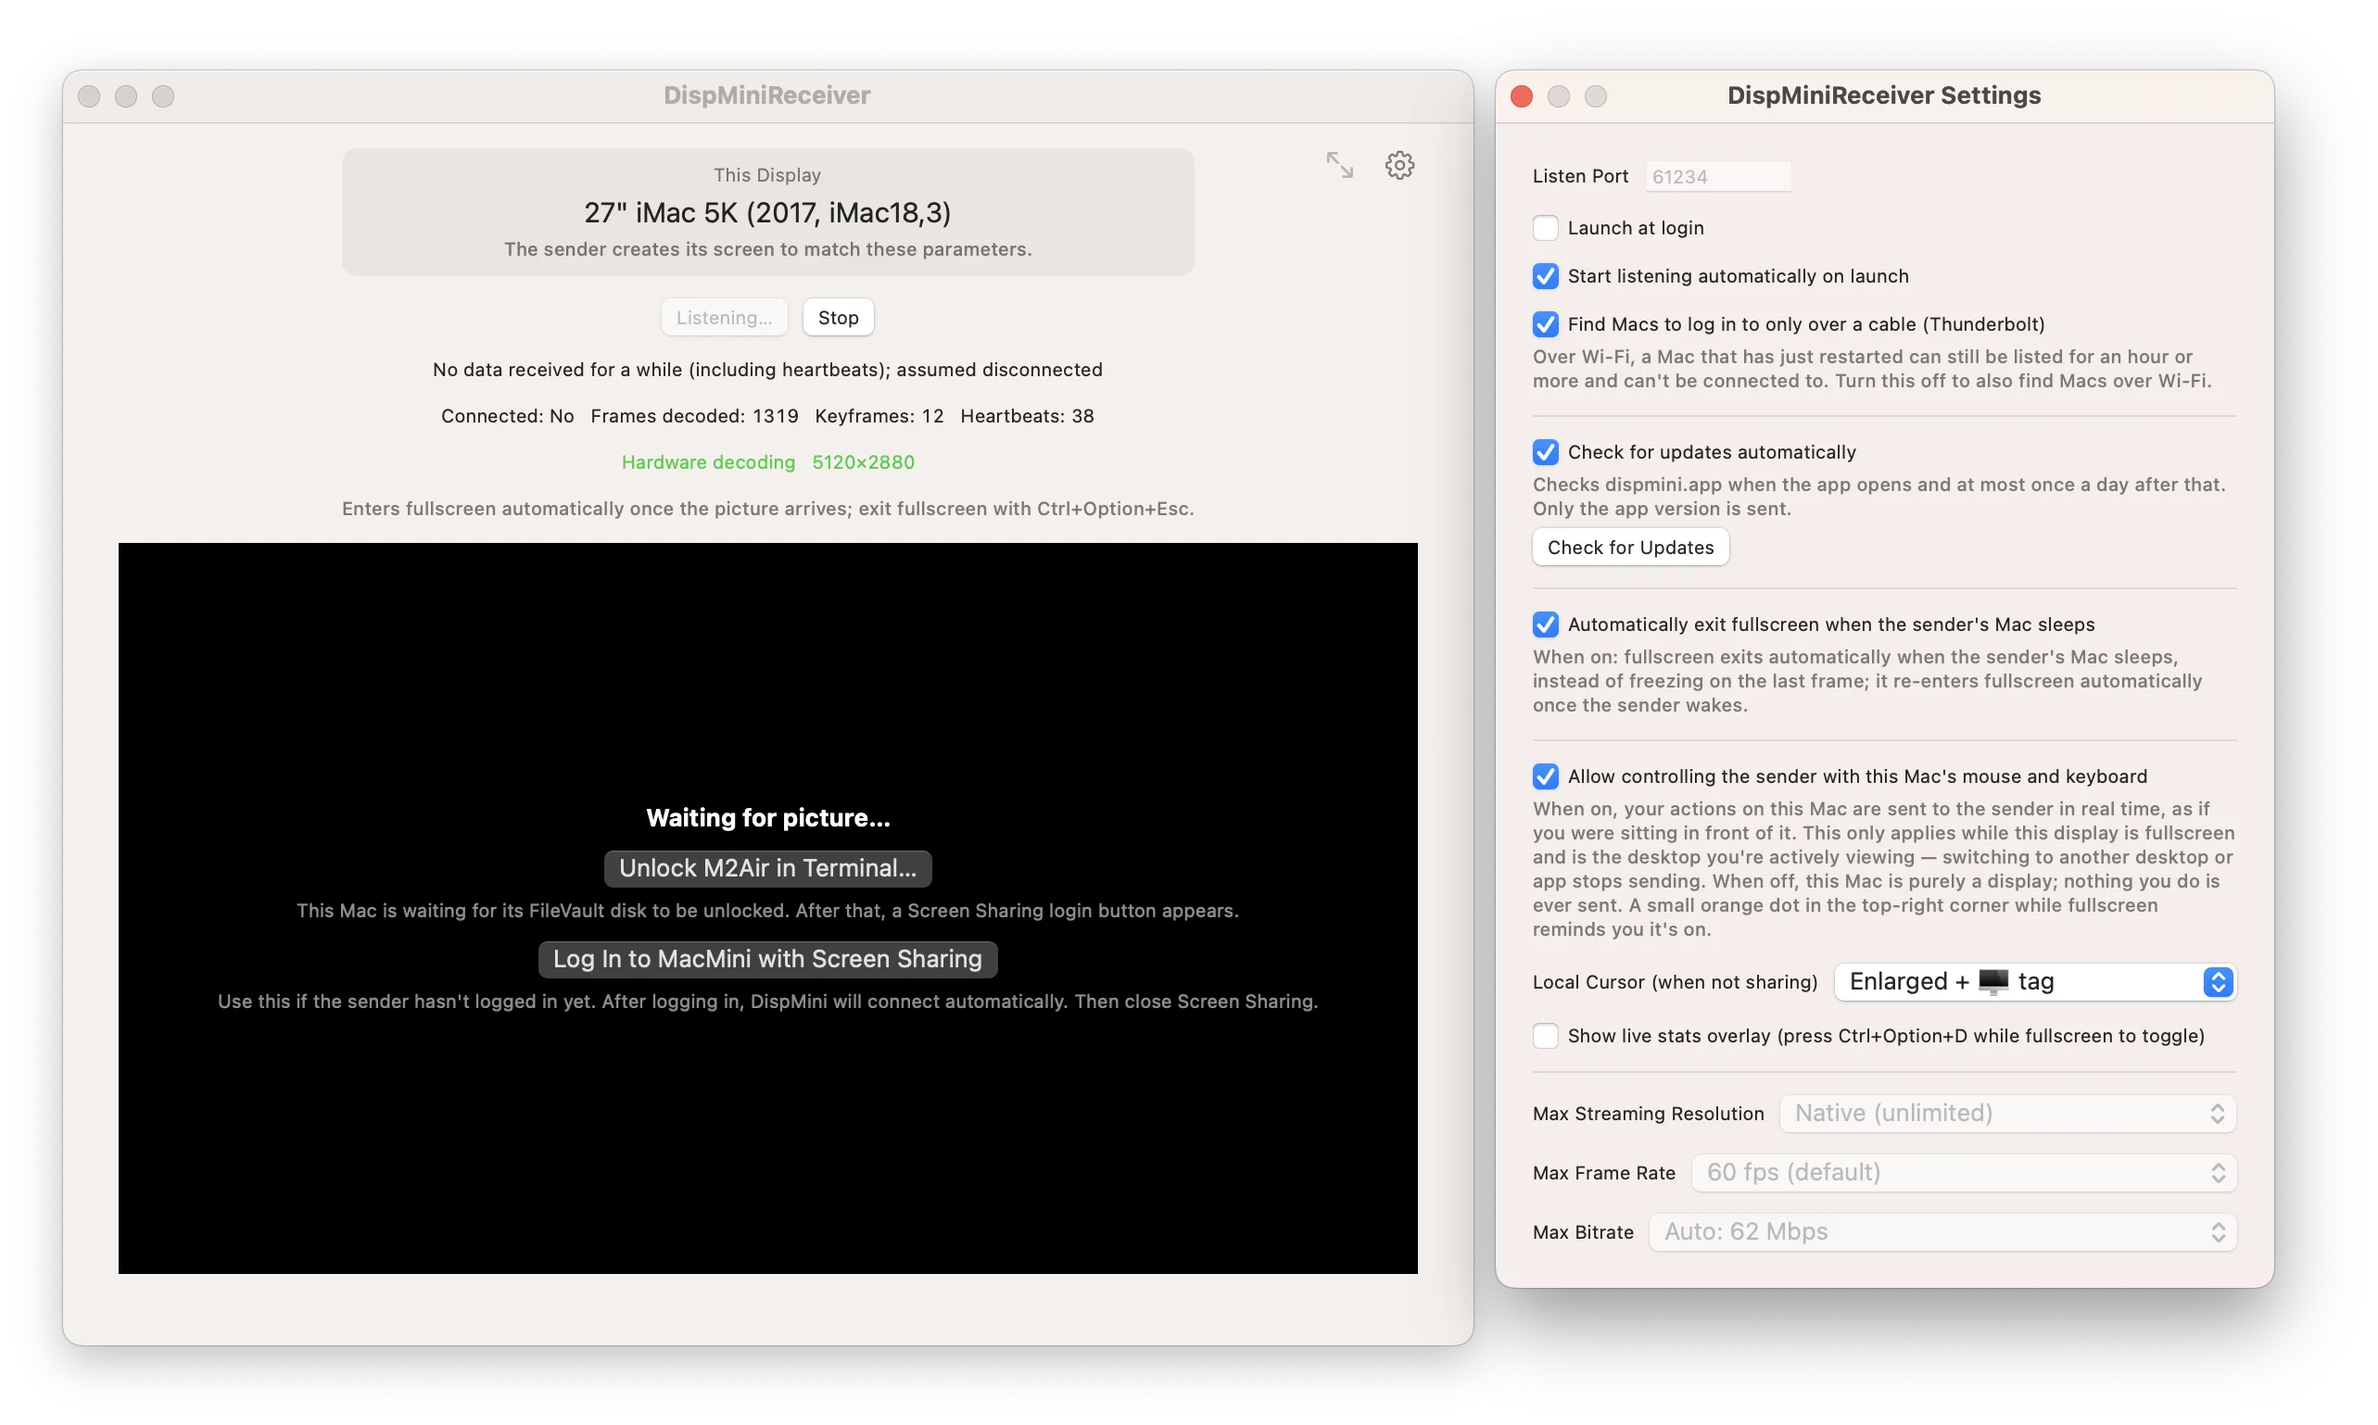
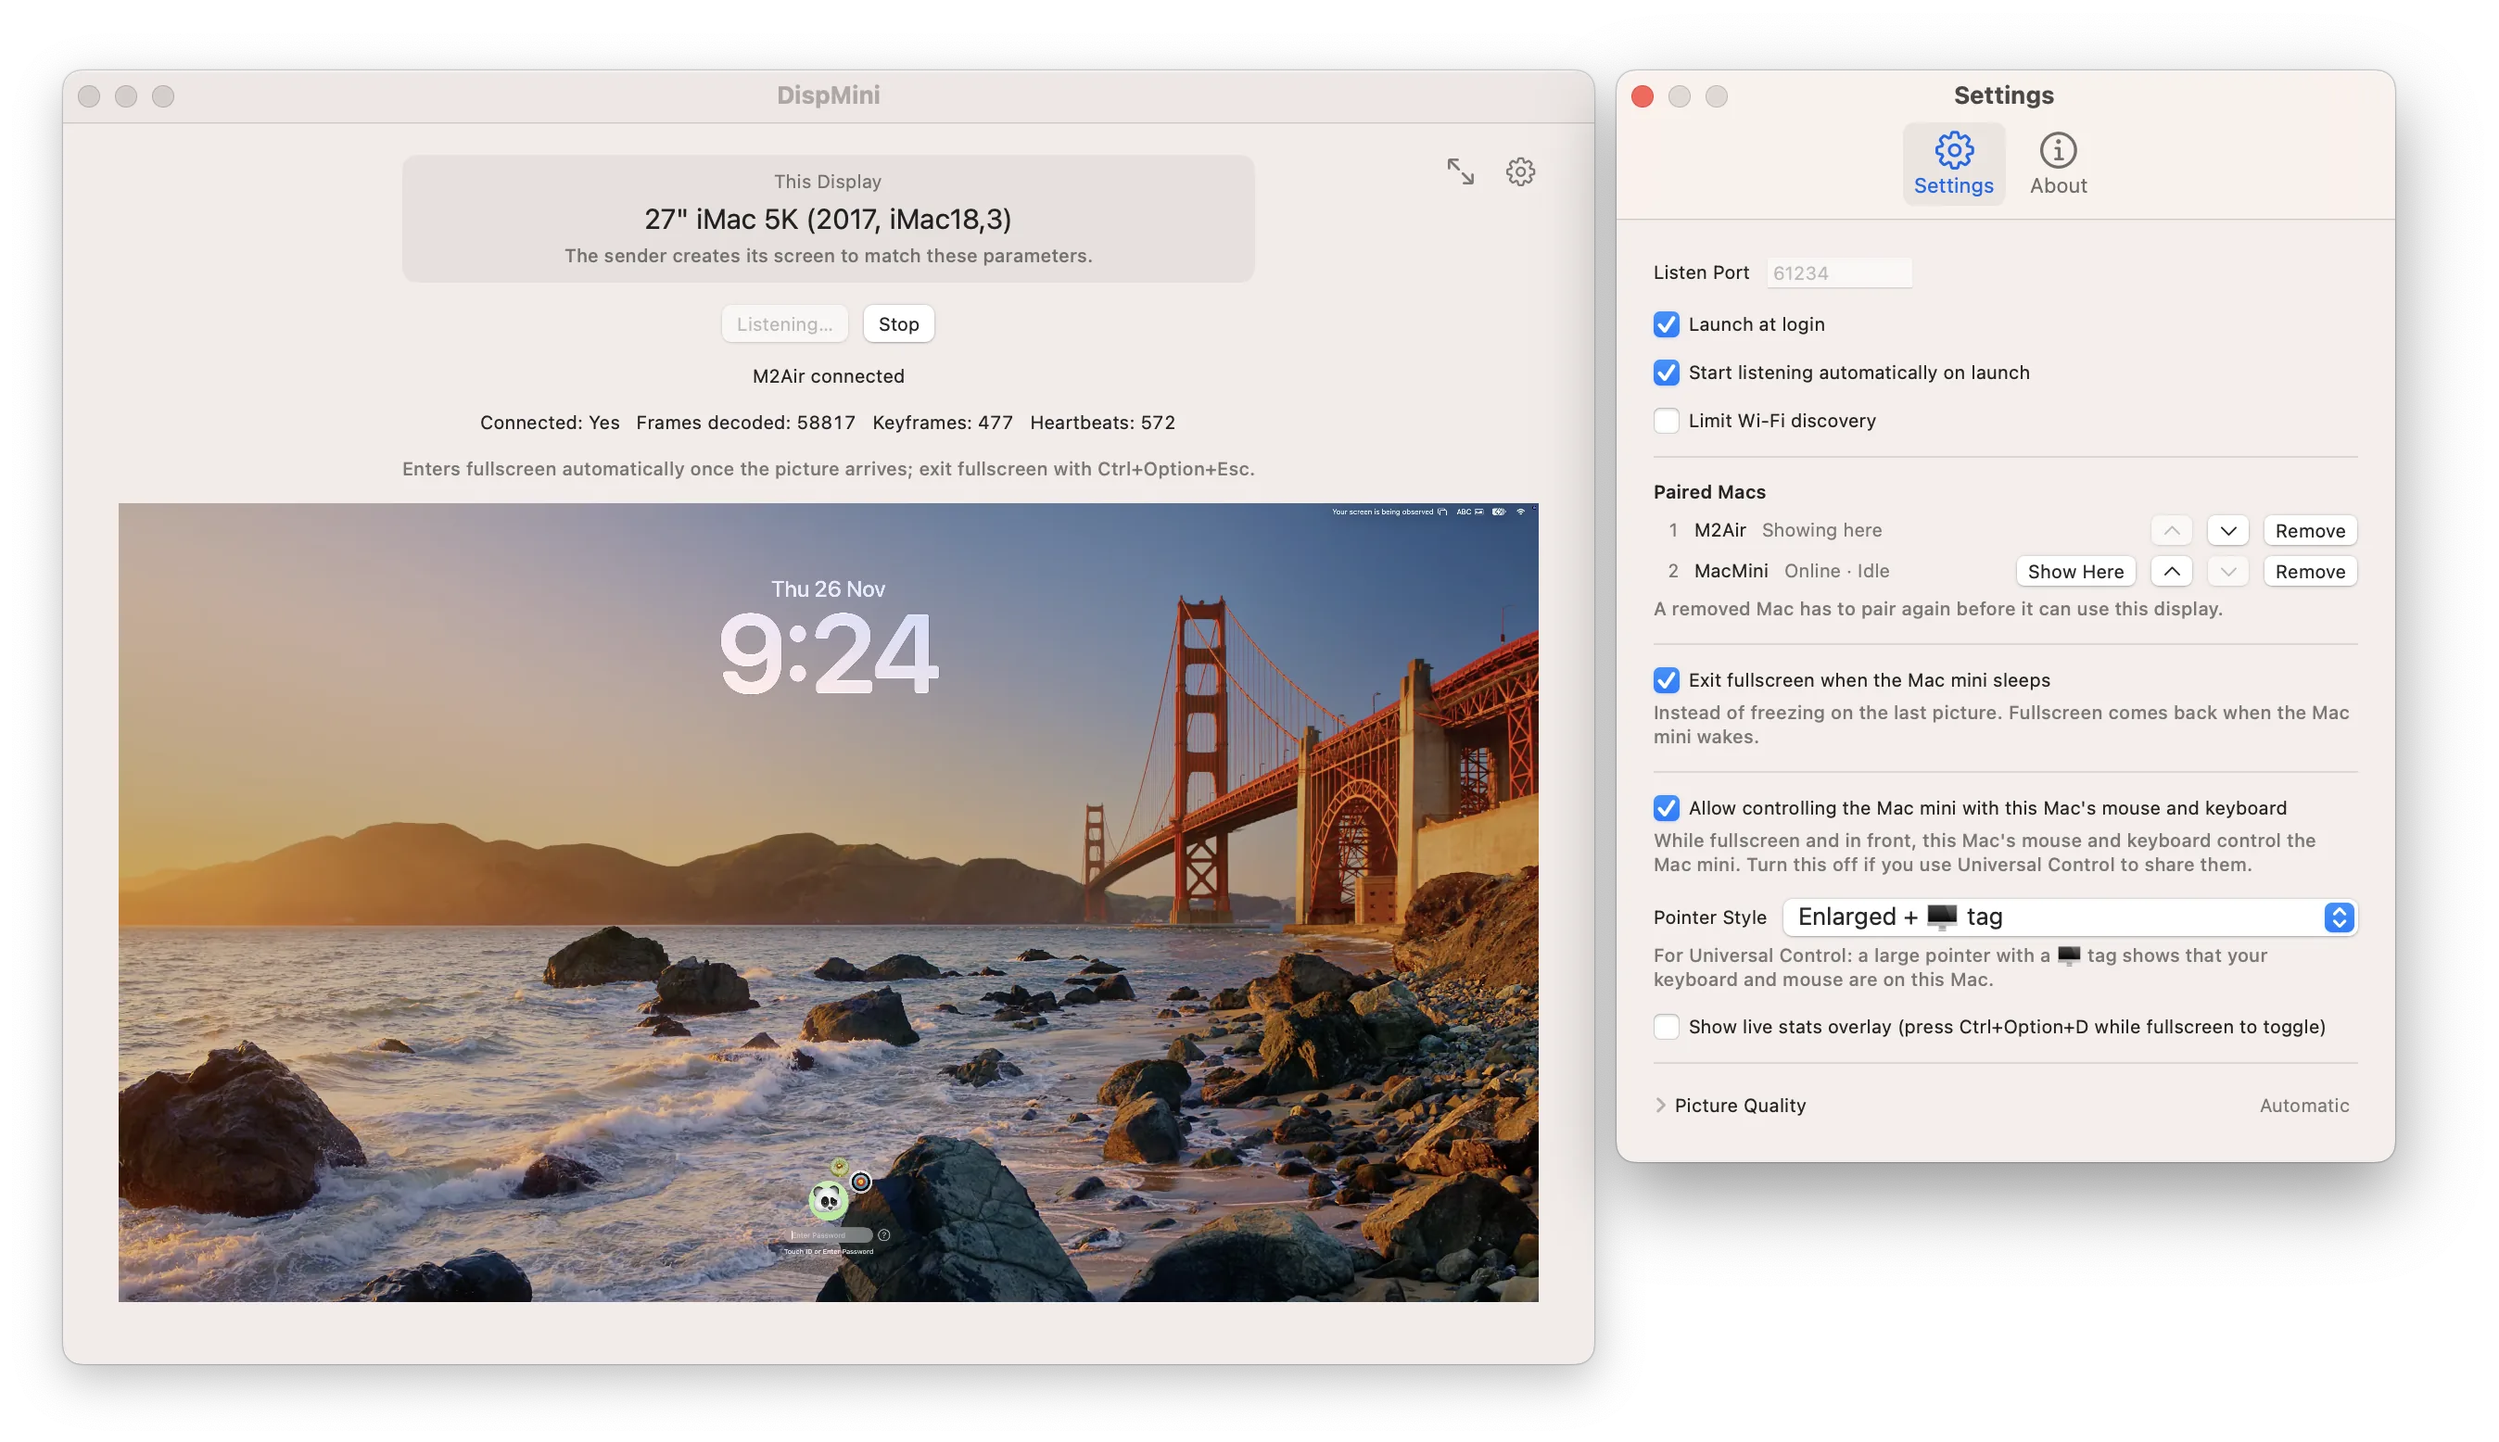
docs: update docs and screenshots

diff --git a/README.md b/README.md
@@ -27,9 +27,9 @@
 > ⭐ **Put that screen back to work!** A perfectly good 4K or 5K Retina panel sitting idle is a waste worth fixing. If DispMini saves your iMac from retirement, please **[give this repo a Star ⭐](https://github.com/23900/DispMini)** so more Mac owners can find it!
 
 <p align="center">
-  <img src="assets/screenshots/receiver-connected-5k.webp" width="880" style="max-width: 100%; height: auto;" alt="DispMiniReceiver streaming native 5120x2880 5K hardware-decoded video on a 27-inch iMac 5K" />
+  <img src="assets/screenshots/receiver-connected-5k.webp" width="880" style="max-width: 100%; height: auto;" alt="DispMini streaming native 5120x2880 5K hardware-decoded video on a 27-inch iMac 5K" />
   <br />
-  <sub><b>DispMiniReceiver on a 27" iMac 5K (2017):</b> Generating a pixel-accurate <code>5120×2880</code> picture with hardware decoding over Thunderbolt (enters fullscreen automatically once the picture arrives).</sub>
+  <sub><b>DispMini on a 27" iMac 5K (2017):</b> Generating a pixel-accurate <code>5120×2880</code> picture with hardware decoding over Thunderbolt (enters fullscreen automatically once the picture arrives).</sub>
 </p>
 
 ## Two Gaps That Complete Each Other
@@ -50,26 +50,28 @@
 - **Extended, main display, or mirrored:** Use the iMac as an extended second display beside a MacBook's own screen, make it the primary display for a Mac mini, or mirror.
 - **Reconnects on its own:** Once both apps start at login, they find each other and reconnect automatically over Thunderbolt — no one needs to babysit the Mac mini.
 - **Headless Mac mini friendly (no HDMI dummy plug):** After initial setup, your Mac mini needs no monitor attached. Includes built-in helpers to [unlock FileVault over the Thunderbolt cable](https://dispmini.app/login-after-restart#if-filevault-is-on) and [log in with Screen Sharing](https://dispmini.app/login-after-restart) after a restart.
-- **One keyboard & mouse for both:** Optionally drive the Mac mini with the iMac's own keyboard, mouse, or trackpad.
+- **One keyboard & mouse for both:** Optionally drive the Mac mini with the iMac's own keyboard, mouse, or trackpad, with `Ctrl+Option` shortcuts for the Mac mini's desktops, Mission Control, and Spotlight.
+- **Several Macs, one iMac:** Pair more than one Mac and choose which one to show from the iMac's waiting screen or settings.
 - **Sound through the iMac:** Audio travels with the picture (`Transmit audio` is on by default), playing through the iMac's built-in speakers.
 - **Switch back anytime:** DispMini lives on its own desktop Space on the iMac — swipe or press `Ctrl+←` / `Ctrl+→` to return to the iMac's own desktop whenever you like, or press `Ctrl+Option+Esc` to exit fullscreen.
+- **One-click updates:** Both apps tell you when a new version is out and install it with **Install and Relaunch**.
 
 ## Screenshots & Interface
 
 ### 1. Menu Bar & Sender Settings (Mac mini / MacBook / Mac Studio)
 
-**DispMiniSender** lives quietly in the menu bar. Each paired display shows a live connection dot — **green** means it's on the Thunderbolt cable and fully tuned (`Aim for green`), **yellow** means on the cable, and **red** means over Wi-Fi.
+**DispMiniSender** lives quietly in the menu bar. Each paired display shows a live connection dot — **green** means it's on the Thunderbolt cable and fully tuned (`Aim for green`), **yellow** means on the cable, and **red** means over Wi-Fi. A lock means the display is paired.
 
 <p align="center">
-  <img src="assets/screenshots/sender-settings.webp" width="840" style="max-width: 100%; height: auto;" alt="DispMiniSender menu bar popover and settings window on macOS" />
+  <img src="assets/screenshots/sender-settings.webp" width="840" style="max-width: 100%; height: auto;" alt="DispMiniSender menu bar panel with three paired displays and a yellow Thunderbolt connection, next to its Settings window with display arrangement, resolution, Known Displays and permissions" />
 </p>
 
-### 2. Display Settings & Headless Reboot Recovery (iMac)
+### 2. Display Window & Settings (iMac)
 
-**DispMiniReceiver** listens automatically on launch, can leave fullscreen while your sender Mac sleeps and return when it wakes, forwards your iMac's mouse and keyboard, and provides one-click actions to unlock a FileVault disk or open Screen Sharing login after your Mac mini restarts.
+**DispMini** on the iMac listens automatically on launch and shows which Mac is connected. In its settings you manage your paired Macs and choose which one to show, turn on keyboard and mouse control, and choose whether to leave fullscreen while the Mac mini sleeps. Picture quality is set automatically. After the Mac mini restarts, the waiting screen offers one-click buttons to unlock its FileVault disk and log in with Screen Sharing.
 
 <p align="center">
-  <img src="assets/screenshots/receiver-settings.webp" width="880" style="max-width: 100%; height: auto;" alt="DispMiniReceiver waiting screen with FileVault unlock and settings panel on iMac" />
+  <img src="assets/screenshots/receiver-settings.webp" width="880" style="max-width: 100%; height: auto;" alt="DispMini window on a 27-inch iMac 5K showing M2Air connected, next to its Settings with Paired Macs, keyboard and mouse control, Pointer Style and Picture Quality set to Automatic" />
 </p>
 
 ## Requirements
@@ -77,17 +79,17 @@
 | App | Install on | Requirements |
 |---|---|---|
 | **DispMiniSender** | **Apple silicon** (M-series) Mac mini, MacBook, or Mac Studio *(Intel senders not supported)* | **macOS 14** or newer |
-| **DispMiniReceiver** | **iMac from 2017 or later** (including 2019 & 2020 models) | **macOS 13** or newer |
+| **DispMini** *(download: DispMiniReceiver)* | **iMac from 2017 or later** (including 2019 & 2020 models) | **macOS 13** or newer |
 
 Plus **one cable**: a **Thunderbolt 3 / 4 or USB4 data cable** directly between the two Macs (a plain USB-C charging cable looks identical but carries no data). Manual Wi-Fi connection is also available as a fallback.
 
-The **21.5" iMac 4K (2017)** and **27" iMac 5K (2017)** are tested on real hardware — see [which iMac models work](https://dispmini.app/imac-as-monitor).
+The **21.5" iMac 4K (2017)**, **27" iMac 5K (2017)**, and **27" iMac 5K (2020)** are tested on real hardware — see [which iMac models work](https://dispmini.app/imac-as-monitor).
 
 ## How It Works (3 Steps)
 
 1. **Wire the two Macs together:** Run a Thunderbolt 3/4 or USB4 cable straight between them. (On an M4 / M4 Pro Mac mini or Max-chip Mac Studio, use the rear Thunderbolt ports.)
-2. **Install both apps:** [DispMiniSender](https://dispmini.app/download/sender) on the Mac mini/MacBook, [DispMiniReceiver](https://dispmini.app/download/receiver) on the iMac.
-3. **Approve once, start at login:** Allow Screen Recording, and Local Network on macOS 15 or later (plus Accessibility on the Mac mini if sharing keyboard & mouse). Set both apps to start at login, and they connect automatically whenever the cable is plugged in.
+2. **Install both apps:** [DispMiniSender](https://dispmini.app/download/sender) on the Mac mini/MacBook, [DispMini](https://dispmini.app/download/receiver) on the iMac (its download is called DispMiniReceiver).
+3. **Pair and approve once, start at login:** The first time the Macs connect over the cable, click **Allow** on the iMac to pair them. Allow Screen Recording, and Local Network on macOS 15 or later (plus Accessibility on the Mac mini if sharing keyboard & mouse). Set both apps to start at login, and they connect automatically whenever the cable is plugged in.
 
 ### Helpful Guides
 
@@ -103,7 +105,7 @@ All video, audio, and input data streams directly peer-to-peer between your two 
 
 The two Macs pair once, and keyboard and mouse input then goes over an encrypted connection. To keep latency low, the picture and sound aren't encrypted, so use the direct Thunderbolt/USB4 cable it is built for, or a trusted private home/office network—not public or shared Wi-Fi.
 
-Update checks send basic device info and anonymous region metadata to verify latest versions. See the [Privacy Policy](PRIVACY.md).
+Update checks send basic details such as the app version, macOS version, and Mac model, with no identifier for you or your Mac. See the [Privacy Policy](PRIVACY.md) for the full list, including approximate location.
 
 ## Support & License
 

diff --git a/PRIVACY.md b/PRIVACY.md
@@ -1,15 +1,13 @@
 # DispMini Privacy Policy
 
-Last updated: November 13, 2026
+Last updated: November 26, 2026
 
 This policy covers DispMiniSender, DispMini on the Mac you use as a display (DispMiniReceiver), and the DispMini website. DispMini is run by James (GitHub: @23900) from New Zealand.
 
 ## Summary
 
-- Your picture, audio, keyboard, and mouse input aren't sent to any DispMini server.
-- The only data sent to a DispMini server comes from update checks: app version, macOS version, Mac model, and language.
-- We also store the approximate location (country, region, and city) that Cloudflare derives from your IP address.
-- We don't store your IP address, and we don't sell your data.
+- Your picture, audio, keyboard, and mouse input stay between your two Macs and aren't sent to any DispMini server.
+- Update checks send basic details, such as the app version, macOS version, and Mac model, with no identifier for you or your Mac, so we can't tell who a check came from. We don't sell this data. See [Update checks](#update-checks) for the full list, including approximate location.
 - The picture and sound between your Macs aren't encrypted. After the two Macs pair, keyboard and mouse input goes over an encrypted connection. Over Wi-Fi, use a trusted private network.
 
 ## Between your two Macs
@@ -22,24 +20,19 @@ DispMini is designed for a direct Thunderbolt or USB4 cable between your two Mac
 
 ## Update checks
 
-After connecting, DispMiniSender checks for updates at most once a day. You can also check by hand in its settings.
+DispMini's apps check for updates by themselves at most once a day, and you can also check by hand in each app's **About** tab. A check can send:
 
-Each check sends:
-
-| Data | Mac |
-|---|---|
-| App version, including whether it's a release candidate or a development build | Sender and display |
-| macOS version | Sender and display |
-| Mac model | Sender and display |
-| Language | Sender and display |
+- The app and its version, including whether it's a release candidate or a development build
+- macOS version
+- Mac model
+- Language
+- Whether the app is paired with or connected to another Mac, and the same details for the Mac it's connected to
 
 We use this data to choose which update information to show you, plan compatibility work, and count usage.
 
-We store these details with each check, along with the date and time, except the display's language. Cloudflare also tells us the approximate location it derives from your IP address (country, region, and city), and we store that too. We don't store the IP address itself or add any identifier for you or your Mac.
+We store these details with each check, along with the date and time. Cloudflare also tells us the approximate location it derives from your IP address (country, region, and city), and we store that too. We don't store the IP address itself or add any identifier for you or your Mac.
 
-To stop automatic checks, turn them off in the Sender's settings.
-
-DispMini on the display also checks for updates on its own when it opens and at most once a day after that. You can also check by hand in its settings. These checks send only its app version, including whether it's a release candidate or a development build, and we don't store them. To stop them, turn them off in its settings.
+To stop automatic checks, turn them off in each app's **About** tab.
 
 ## How long we keep data
 

diff --git a/docs/faq.md b/docs/faq.md
@@ -10,7 +10,7 @@ It does the same job in a different way. Apple's Target Display Mode isn't avail
 
 ## Which iMacs work with DispMini?
 
-iMacs from 2017 or later running macOS 13 or later. The 21.5-inch iMac 4K (2017) and 27-inch iMac 5K (2017) have been tested on real hardware.
+iMacs from 2017 or later running macOS 13 or later. The 21.5-inch iMac 4K (2017), 27-inch iMac 5K (2017), and 27-inch iMac 5K (2020) have been tested on real hardware.
 
 iMacs from before 2017 aren't supported.
 
